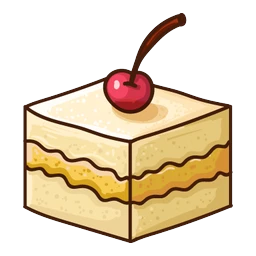
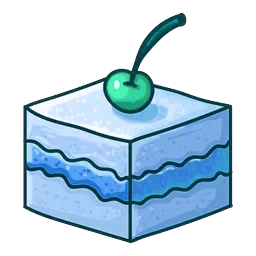
Fusion round 10: carnival, gem-mine, koi-pond, jungle-king
Claude-Session: https://claude.ai/code/session_01LcC21fng844zb5K8BRYuAt

diff --git a/LuckyVault/public/sw.js b/LuckyVault/public/sw.js
@@ -1,5 +1,5 @@
 // Offline cache for the game client (API calls always go to the network).
-const V = 'lv-v188';
+const V = 'lv-v189';
 const FILES = ['./', './index.html', './config.js', './manifest.webmanifest', './js/slots-engine.js', './js/catalog.js', './js/tables-engine.js', './js/tables-ui.js', './js/social.js', './js/fx.js', './js/feat-ui.js', './js/hov-ui.js', './js/roadmap.js', './js/vegas.js', './js/rules.js', './js/onboard.js', './js/friends-ui.js', './js/rg.js', './js/support-ui.js', './js/replay.js', './js/fx2.js', './js/i18n.js', './js/iap.js', './assets/fonts/Anton.woff2', './assets/fonts/Cinzel.woff2', './icons/icon-192.png', './icons/icon-512.png'];
 self.addEventListener('install', e => { e.waitUntil(caches.open(V).then(c => c.addAll(FILES)).then(() => self.skipWaiting())); });
 self.addEventListener('activate', e => { e.waitUntil(caches.keys().then(ks => Promise.all(ks.filter(k => k !== V).map(k => caches.delete(k)))).then(() => self.clients.claim())); });

diff --git a/LuckyVault/tools/build_fusion.py b/LuckyVault/tools/build_fusion.py
@@ -134,6 +134,15 @@ G = {
  'fortune-god': dict(src=[None] + P(ELX, 13, 8, 45) + [None] + P(ELX, 16) + [None] * 5, glow=(255, 200, 90)),
  # Star Burst: 5 gems shared with neon-nights -> star crystals and shards
  'star-burst': dict(src=[None] + P(MG, 45, 39) + [None, None, None] + P(MG, 38, 37, 27) + [None, None], glow=(255, 150, 230)),
+ # ---- batch 10 ----
+ # Carnival Spin: h4,l1,l3,l4 shared with cosmic-candy -> those four sweets hue-rotated
+ 'carnival-spin': dict(src=[None] * 11, hue=(170, ['h4', 'l1', 'l3', 'l4']), glow=(255, 160, 220)),
+ # Gem Mine: h1,h2,h4 shared with neon-nights -> those gems hue-rotated
+ 'gem-mine': dict(src=[None] * 11, hue=(110, ['h1', 'h2', 'h4']), glow=(150, 255, 170)),
+ # Koi Pond: h3,l1,l2 shared with ocean-pearl-link -> red koi, lily-pad clover, green coral (sea-loot)
+ 'koi-pond': dict(src=[None, None] + P(SEA, 35) + [None] + P(SEA, 47, 26) + [None] * 5, glow=(255, 150, 110)),
+ # Jungle King: h2,h3,h4 shared with jungle-reels -> blueberries, pineapple, wild strawberry (512 painted; h1 is already a dragon fruit)
+ 'jungle-king': dict(src=[None] + P(FR, 39, 45, 26) + [None] * 7, glow=(160, 255, 120)),
 }
 todo = sys.argv[1:] or list(G)
 for slug in todo:

diff --git a/LuckyVault/CHANGELOG.md b/LuckyVault/CHANGELOG.md
@@ -711,3 +711,9 @@ Frame-by-frame phone QA (idle, bet, deal x8, result, squeeze) in 中文 and Engl
 - 竹林熊猫：4 个高分符号与阿兹特克太阳相同（翡翠留给阿兹特克）→ 金色灯笼瓶、陶罐、叶包橙瓶、蓝葫芦（第一次选 3 个棕陶罐颜色太像，已换）
 - 财神：与法老黄金共用的 4 个符号 → 中式标签药罐、金色圣杯
 - 星光迸发：与霓虹之夜共用的 5 颗宝石 → 星形晶体与晶片
+
+## Round 99 (19:55) 素材融合第 10 批
+- 嘉年华转轮：与宇宙糖果共用的 4 个甜品 → 换色
+- 宝石矿：与霓虹之夜共用的 3 颗宝石 → 换色
+- 锦鲤池：与海洋珍珠 Link 共用的 3 个符号 → 红锦鲤、睡莲叶、绿珊瑚
+- 丛林之王：与丛林转轴共用的 3 个符号 → 蓝莓、菠萝、野草莓（避开本款已有的火龙果）
